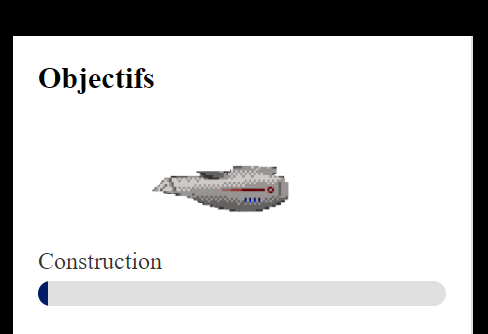
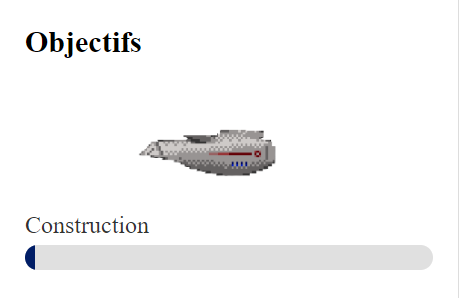
mon histoire

Changed region(s): [[0.0, 0.0, 1.0, 1.0], [0.305, 0.4228, 0.61, 0.6342]]

diff --git a/projet/space_clicker.html b/projet/space_clicker.html
@@ -20,7 +20,6 @@
         </button>
         <ul>
             <li><a href="../index.html">Accueil</a></li>
-
             <li class="dropdown">
                 <a href="#projects" class="dropdown-toggle">Projets</a>
                 <ul class="dropdown-menu">
@@ -28,103 +27,100 @@
                     <li><a href="../projetPerso.html">Projets Personnels</a></li>
                 </ul>
             </li>
-        
         </ul>
     </nav>
 
-    <div class="portfolio-container">
+    <main class="portfolio-container">
 
         <section id="header" class="header">
             <div class="title-link"> 
-                <a href=" https://yota02.github.io/cookie_clicker/">
-                    <h2>
-                        Space Clicker
-                    </h2>
+                <a href="https://yota02.github.io/cookie_clicker/" target="_blank">
+                    <h2>Space Clicker</h2>
                 </a>
             </div>
-            <button id="space_clicker_title" href >  </button>
-            
-        </section>    
-
+        </section>   
+        
         <section id="contexte" class="content">
             <h2>Contexte</h2>
             <p>
-                Bienvenue dans Space Cookie Clicker, un jeu galactique où votre mission est de devenir le plus grand cookie-naute de l’univers ! Dans ce jeu de clic captivant, vous ne produisez pas seulement des cookies… vous les envoyez conquérir l’espace. Préparez-vous à explorer des planètes lointaines, à établir des bases interstellaires et à découvrir les secrets de la galaxie tout en remplissant vos réserves de cookies cosmiques. 
+                Dans ce jeu de type "Cookie Clicker", le but est de cliquer sur un astéroïde pour collecter des minéraux afin de construire des vaisseaux spatiaux. 
+                
             </p>
 
-            <h3>
-                Histoire :
-            </h3>
-
-            <p>               
-
+            <p>
+                Plus vous cliquez, plus vous gagnez de ressources. Vous pouvez utiliser ces ressources pour acheter des améliorations, comme des vaisseaux ou des stations spatiales, qui vous permettent de récolter plus efficacement ou automatiquement. 
+                Le but final est de construire des vaisseaux de plus en plus complexes.
             </p>
-
-            <img src="">
-
         </section>
 
-        <section id="contexte" class="content">
+        <section id="realisation" class="content">
             <h2>Réalisation</h2>
-        
-            <div class="realisation-container reversed">
+            <div class="realisation-container">
                 <div class="text">
                     <p>
-                        faire un gif qui incrémente le nombre 
+                        Dans ce projet, j'ai conçu le cœur du jeu, où un astéroïde génère des minéraux à chaque clic.
+                    </p>
+                    <p>
+                        Chaque interaction avec l'astéroïde permet au joueur de récolter des ressources, une mécanique essentielle inspirée du principe de "Cookie Clicker".
                     </p>
                 </div>
                 <div class="image">
                     <img src="../assets/img/spaceclicker/cliker.gif" alt="spaceclicker">
                 </div>
             </div>
-        
-            <div class="realisation-container">
+
+            <div class="realisation-container reversed">
                 <div class="text">
                     <p>
-                        recadrer l'image
+                        J'ai également intégré un système de magasin où les joueurs peuvent utiliser les minéraux collectés pour acheter des améliorations.
+                    </p>
+                    <p>
+                        Ces améliorations permettent d'augmenter la vitesse de récolte des ressources ou d'automatiser le processus de collecte, offrant ainsi une progression plus fluide et engageante dans le jeu.
                     </p>
                 </div>
                 <div class="image">
                     <img src="../assets/img/spaceclicker/shop.png" alt="Shop">
                 </div>
             </div>
-        
-            <div class="realisation-container reversed">
+
+            <div class="realisation-container">
                 <div class="text">
                     <p>
-                        montrer l'animation de construction
+                        Le jeu inclut un système d'objectifs sous forme de vaisseaux spatiaux à construire, ce qui permet aux joueurs de débloquer des récompenses en les accomplissant.
+                    </p>
+                    <p>
+                        Ces objectifs ajoutent un aspect de défi et de progression, incitant les joueurs à continuer à jouer pour obtenir des bonus qui améliorent leurs capacités et leur expérience de jeu.
                     </p>
                 </div>
                 <div class="image">
                     <img src="../assets/img/spaceclicker/objectif.png" alt="Objectif">
                 </div>
             </div>
-
         </section>
 
         <section id="skills" class="content">
-            <h2>Outils et Languages </h2>
+            <h2>Outils et Langages</h2>
             <ul class="skills-list">
                 <li class="skill-card">
                     <img src="../assets/img/logo/js.png" alt="Javascript">
                     <div class="skill-description">Javascript</div>
                 </li>
                 <li class="skill-card">
-                    <img src="../assets/img/logo/html.png" alt="html">
-                    <div class="skill-description">Html</div>
+                    <img src="../assets/img/logo/html.png" alt="HTML">
+                    <div class="skill-description">HTML</div>
                 </li>
                 <li class="skill-card">
-                    <img src="../assets/img/logo/css.png" alt="css">
-                    <div class="skill-description">Css</div>
+                    <img src="../assets/img/logo/css.png" alt="CSS">
+                    <div class="skill-description">CSS</div>
                 </li>
                 <li class="skill-card">
-                    <img src="../assets/img/logo/vujs.png" alt="vue.js">
+                    <img src="../assets/img/logo/vujs.png" alt="Vue.js">
                     <div class="skill-description">Vue.js</div>
                 </li>
             </ul>
         </section>  
 
-    </div>
+    </main>
 
 </body>
 </html>

diff --git a/index.html b/index.html
@@ -37,8 +37,7 @@
         <section id="about" class="content">
             <h2>A propos de moi</h2>
             
-            <p>Bonjour,     
-                <br> Je suis Alexis Michaux-Kinet, étudiant en informatique, passionné par les nouvelles technologies en rapport avec l'aérospatial</p>
+            <p>Bonjour, Je suis Alexis Michaux-Kinet, étudiant en informatique, passionné par les nouvelles technologies en rapport avec l'aérospatial</p>
         
             <ul class="social-list">
                 <li>
@@ -87,11 +86,41 @@
             </ul>
         </section>
 
-
-        <section id="about" class="content">
+        <section id="about" class="content timeline">
             <h2>Mon histoire</h2>
-            
+            <div class="timeline-container">
+
+                <div class="timeline-item left">
+                    <div class="timeline-content">
+                        <h3>🚀 Stage au CSUM 🚀 (Centre Spatial Universitaires de Montpellier)</h3>
+                        <p></p>
+                    </div>
+                </div>
+
+                <div class="timeline-item right">
+                    <div class="timeline-content">
+                        <h3> Entrée a l'IUT d'informatique de Montpellier </h3>
+                        <p></p>
+                    </div>
+                </div>
+
+                <div class="timeline-item left">
+                    <div class="timeline-content">
+                        <h3>Bacalauréat général</h3>
+                        <p> Lycée jean jaurès  </p>
+                    </div>
+                </div>
+                
+                <div class="timeline-item left">
+                    <div class="timeline-content">
+                        <h3>Bacalauréat général</h3>
+                        <p></p>
+                    </div>
+                </div>
+                
+            </div>
         </section>
+        
     </div>
 </body>
 </html>

diff --git a/assets/css/style.css b/assets/css/style.css
@@ -198,3 +198,97 @@ body {
     transform: scale(1.2); 
     cursor: pointer;
 }
+
+
+
+
+
+
+/* Timeline section */
+.timeline {
+    position: relative;
+    width: 100%;
+    margin: 20px 0;
+    padding: 0;
+}
+
+.timeline-container {
+    position: relative;
+    max-width: 1200px;
+    margin: 0 auto;
+}
+
+.timeline-item {
+    position: relative;
+    width: 50%;
+    padding: 20px;
+    box-sizing: border-box;
+}
+
+.timeline-item.left {
+    left: 0;
+    text-align: right;
+}
+
+.timeline-item.right {
+    left: 50%;
+    text-align: left;
+}
+
+.timeline-content {
+    position: relative;
+    background-color: #fff;
+    padding: 15px 20px;
+    border-radius: 10px;
+    border: 1px solid rgba(0, 0, 0, 0.1);
+    box-shadow: 0px 4px 10px rgba(0, 0, 0, 0.2);
+    opacity: 0;
+    transform: translateY(20px);
+    transition: opacity 0.6s ease-out, transform 0.6s ease-out;
+}
+
+.timeline-item.left .timeline-content {
+    margin-left: auto;
+}
+
+.timeline-item.right .timeline-content {
+    margin-right: auto;
+}
+
+.timeline-container:before {
+    content: '';
+    position: absolute;
+    top: 0;
+    left: 50%;
+    transform: translateX(-50%);
+    width: 4px;
+    height: 100%;
+    background-color: #bbb;
+    z-index: 0;
+}
+
+.timeline-item:after {
+    content: '';
+    position: absolute;
+    width: 20px;
+    height: 20px;
+    background-color: #fff;
+    border: 4px solid #bbb;
+    border-radius: 50%;
+    top: 20px;
+    z-index: 1;
+}
+
+.timeline-item.left:after {
+    right: -10px;
+}
+
+.timeline-item.right:after {
+    left: -10px;
+}
+
+/* Scroll animation */
+.timeline-content.visible {
+    opacity: 1;
+    transform: translateY(0);
+}

diff --git a/assets/js/navbar.js b/assets/js/navbar.js
@@ -16,3 +16,26 @@ document.getElementById("toggle-btn").addEventListener("click", function() {
         toggleBtn.classList.remove("open");
     }
 });
+
+document.addEventListener("DOMContentLoaded", function () {
+    const items = document.querySelectorAll(".timeline-content");
+
+    function checkVisibility() {
+        const triggerBottom = window.innerHeight * 0.8; // Ajustez le seuil de visibilité si nécessaire
+
+        items.forEach(item => {
+            const boxTop = item.getBoundingClientRect().top;
+
+            if (boxTop < triggerBottom) {
+                item.classList.add("visible");
+            } else {
+                item.classList.remove("visible"); // Pour éviter qu'elles restent visibles hors de l'écran
+            }
+        });
+    }
+
+    window.addEventListener("scroll", checkVisibility);
+
+    // Vérifiez la visibilité une fois au chargement
+    checkVisibility();
+});

diff --git a/assets/css/realisation.css b/assets/css/realisation.css
@@ -62,7 +62,7 @@
     max-width: 100%;
     height: auto;
     border-radius: 10%;
-    width: 75%;
+    width: 50%;
     transform: scale(0.95);
     transition: transform 0.3s ease-out;
 }
@@ -70,6 +70,11 @@
 .realisation-container:hover .image img {
     transform: scale(1);
 }
+
+p {
+    text-indent: 50px;  /* Ajoute un espacement de 30px au début de chaque paragraphe */
+}
+
 
 @keyframes fadeInUp {
     from {
